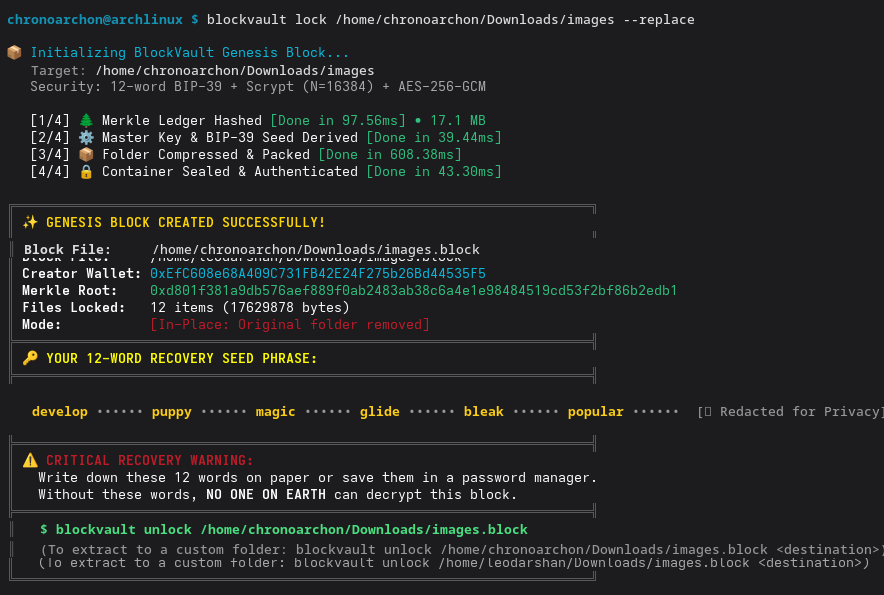
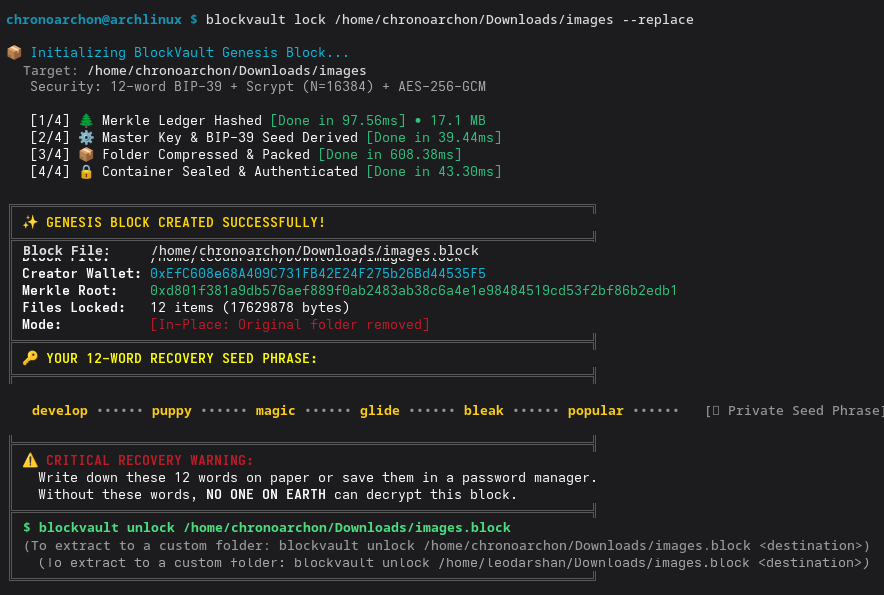
docs: replace mockups with edited live screenshots (redacted leodarshan -> chronoarchon)

diff --git a/index.html b/index.html
@@ -209,15 +209,14 @@
       </div>
     </div>
 
-    <h2 class="section-title">📸 Detailed Step-by-Step CLI Walkthrough</h2>
-
+    <h2 class="section-title">⚡ Real Live Terminal Execution</h2>
     <div class="card">
       <div class="card-header">
         <span>Step 1: Creating a Genesis Block Vault</span>
         <code>$ blockvault lock ~/Downloads/images --replace</code>
       </div>
       <div class="card-body">
-        <img src="assets/demo-lock.png" alt="Locking a folder">
+        <img src="assets/screenshot-01-lock-edited.png" alt="Real BlockVault Lock Execution">
       </div>
     </div>
 
@@ -227,7 +226,7 @@
         <code>$ blockvault inspect ~/Downloads/images.block</code>
       </div>
       <div class="card-body">
-        <img src="assets/demo-inspect.png" alt="Inspecting container ledger">
+        <img src="assets/screenshot-02-inspect-edited.png" alt="Real BlockVault Inspect Execution">
       </div>
     </div>
 
@@ -237,7 +236,7 @@
         <code>$ blockvault unlock ~/Downloads/images.block</code>
       </div>
       <div class="card-body">
-        <img src="assets/demo-unlock.png" alt="Unlocking block">
+        <img src="assets/screenshot-03-unlock-edited.png" alt="Real BlockVault Unlock Execution">
       </div>
     </div>
 
